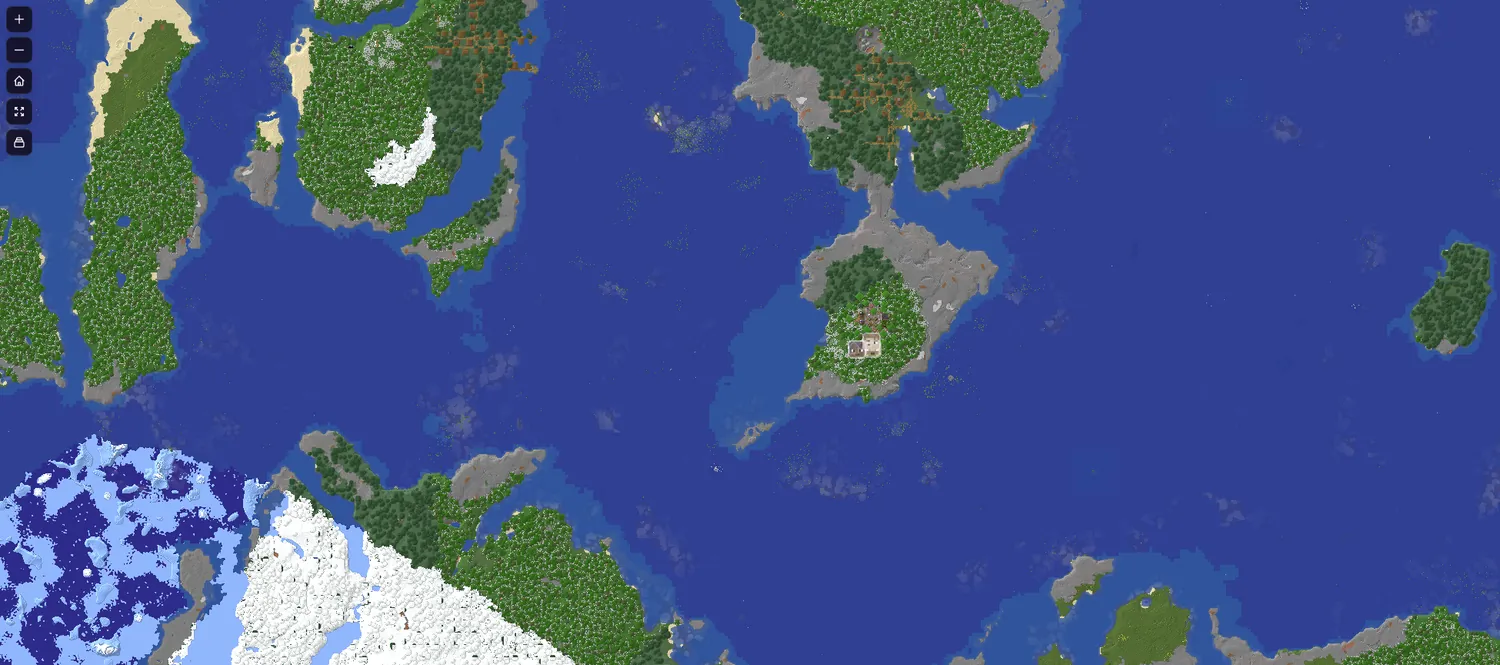
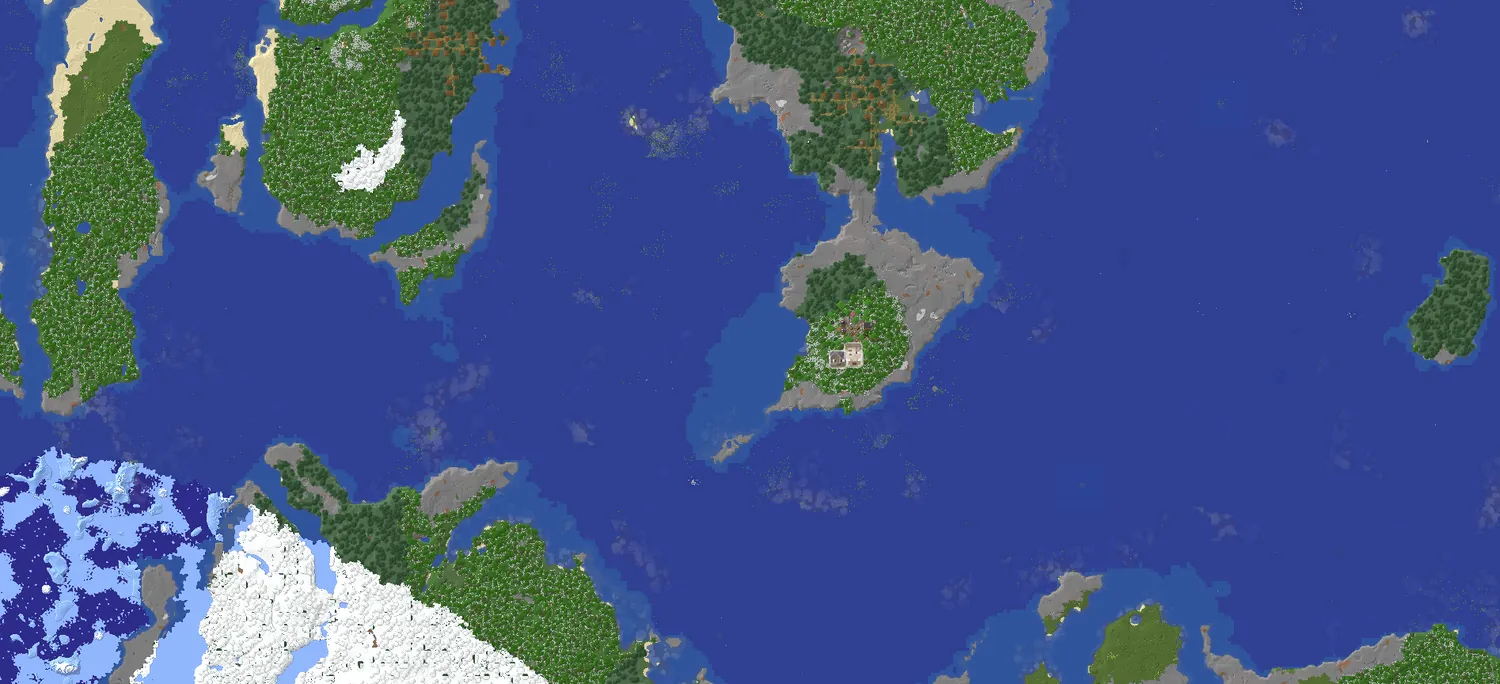
Add files via upload

diff --git a/site/index.html b/site/index.html
@@ -37,7 +37,7 @@ a{color:var(--forest)}
 header.nav{position:sticky;top:0;z-index:10;background:rgba(15,42,29,.96);backdrop-filter:blur(8px)}
 header.nav .wrap{display:flex;align-items:center;justify-content:space-between;gap:16px;min-height:64px;flex-wrap:wrap}
 .brand{font:700 1.35rem var(--serif);color:#fff;text-decoration:none;display:flex;align-items:center;gap:10px}
-.brand span{color:var(--leaf)}
+.brand b{color:var(--leaf);font-weight:inherit}
 nav ul{list-style:none;margin:0;padding:0;display:flex;gap:4px;flex-wrap:wrap}
 nav a{display:block;color:#cfe3d6;text-decoration:none;font-weight:500;font-size:.95rem;padding:8px 12px;border-radius:8px}
 nav a:hover{background:rgba(255,255,255,.08);color:#fff}
@@ -45,7 +45,10 @@ nav a.cta{background:var(--leaf);color:#06180e;font-weight:700}
 nav a.cta:hover{background:#52b374}
 
 /* Hero */
-.hero{background:linear-gradient(90deg,rgba(15,42,29,.94) 0,rgba(15,42,29,.72) 45%,rgba(15,42,29,.25) 100%),linear-gradient(0deg,rgba(15,42,29,.85) 0,transparent 40%),url(img/hero.webp) center/cover,var(--ink);color:#fff;padding:84px 0 96px}
+.hero{position:relative;overflow:hidden;background:var(--ink);color:#fff;padding:84px 0 96px}
+.hero-bg{position:absolute;inset:0;width:100%;height:100%;object-fit:cover;object-position:60% center}
+.hero:after{content:"";position:absolute;inset:0;background:linear-gradient(90deg,rgba(15,42,29,.92) 0,rgba(15,42,29,.62) 50%,rgba(15,42,29,.2) 100%),linear-gradient(0deg,rgba(15,42,29,.8) 0,transparent 40%)}
+.hero .wrap{position:relative;z-index:1}
 .hero .eyebrow{display:inline-flex;align-items:center;gap:10px;background:rgba(255,255,255,.08);border:1px solid rgba(255,255,255,.14);
   padding:7px 14px;border-radius:99px;font-weight:600;font-size:.92rem}
 .dot{width:10px;height:10px;border-radius:50%;background:#8a9a90}
@@ -56,6 +59,7 @@ h1{font-size:clamp(2.8rem,8vw,5.2rem);margin:22px 0 16px;letter-spacing:-.01em}
 h1 em{font-style:normal;color:#7fd39a}
 .hero p.lead{font-size:1.25rem;color:#c3d8ca;max-width:46ch;margin:0 0 30px}
 .actions{display:flex;flex-wrap:wrap;gap:12px}
+.actions .btn{flex:1 1 auto}
 .btn{display:inline-flex;align-items:center;justify-content:center;gap:8px;font:600 1rem var(--sans);cursor:pointer;
   padding:12px 20px;border-radius:10px;border:2px solid transparent;text-decoration:none;transition:transform .12s,background .15s}
 .btn:active{transform:translateY(1px)}
@@ -101,13 +105,13 @@ h2{font-size:clamp(1.9rem,4.5vw,2.8rem);color:var(--ink);margin-bottom:12px}
 .steps b{display:block;color:var(--ink);margin-bottom:4px}
 
 /* Galerij */
-.gallery{display:grid;grid-template-columns:repeat(3,1fr);gap:14px}
+.gallery{display:grid;grid-template-columns:repeat(2,1fr);gap:14px}
 .shot{padding:0;border:1px solid var(--line);border-radius:var(--r);overflow:hidden;cursor:zoom-in;background:#14101f;display:block;line-height:0}
 .shot.big{grid-column:1/-1}
 .shot img{width:100%;height:auto;display:block;transition:transform .4s}
 .shot:hover img{transform:scale(1.03)}
 .shot:not(.big) img{aspect-ratio:16/10;object-fit:cover}
-.shot.big img{aspect-ratio:21/9;object-fit:cover}
+.shot.big img{aspect-ratio:2/1;object-fit:cover}
 figure.map{margin:40px 0 0;border:1px solid var(--line);border-radius:var(--r);overflow:hidden;background:#fff;box-shadow:var(--shadow)}
 figure.map img{width:100%;height:auto;display:block}
 figure.map figcaption{display:flex;align-items:center;justify-content:space-between;gap:16px;flex-wrap:wrap;padding:16px 20px}
@@ -160,7 +164,22 @@ footer .brand{font-size:1.2rem}
 .toast{position:fixed;left:50%;bottom:24px;transform:translate(-50%,20px);background:var(--ink);color:#fff;padding:11px 20px;border-radius:10px;
   font-weight:600;opacity:0;pointer-events:none;transition:.2s;z-index:30}
 .toast.show{opacity:1;transform:translate(-50%,0)}
-@media (max-width:640px){section{padding:60px 0}.hero{padding:56px 0 80px}nav ul{gap:0}nav a{padding:8px 9px;font-size:.88rem}}
+#onlineSub{margin-bottom:22px}
+@media (max-width:640px){
+  section{padding:60px 0}.hero{padding:56px 0 80px}
+  .hero:after{background:linear-gradient(180deg,rgba(15,42,29,.8) 0,rgba(15,42,29,.6) 45%,rgba(15,42,29,.94) 100%)}
+  header.nav .wrap{min-height:56px;padding-top:6px;padding-bottom:6px}
+  nav{width:100%;margin:0 -4px}
+  nav ul{flex-wrap:nowrap;overflow-x:auto;gap:0;scrollbar-width:none;padding-bottom:2px}
+  nav ul::-webkit-scrollbar{display:none}
+  nav a{padding:8px 10px;font-size:.9rem;white-space:nowrap}
+  nav li:nth-child(4){display:none}
+  .actions .btn.discord{flex-basis:100%}
+  .card{padding:22px}
+  .field{flex-direction:column;align-items:stretch;gap:8px;padding:12px 14px}
+  .field code{white-space:nowrap;word-break:normal;font-size:1.05rem}
+  .field .btn{width:100%}
+}
 @media (prefers-reduced-motion:reduce){*{transition:none!important;scroll-behavior:auto!important}}
 </style>
 </head>
@@ -169,7 +188,7 @@ footer .brand{font-size:1.2rem}
 
 <header class="nav">
   <div class="wrap">
-    <a class="brand" href="#top">🌿 Koriander<span>SMP</span></a>
+    <a class="brand" href="#top"><span aria-hidden="true">🌿</span><span>Koriander<b>SMP</b></span></a>
     <nav aria-label="Hoofdmenu">
       <ul>
         <li><a href="#join">Meedoen</a></li>
@@ -185,6 +204,7 @@ footer .brand{font-size:1.2rem}
 
 <main id="top">
   <div class="hero">
+    <img class="hero-bg" src="img/hero.webp" alt="" width="1920" height="1080" fetchpriority="high" decoding="async">
     <div class="wrap">
       <div class="eyebrow" id="status" role="status"><span class="dot"></span><span id="statusText">Status laden…</span></div>
       <h1>Koriander<em>SMP</em></h1>
@@ -247,14 +267,13 @@ footer .brand{font-size:1.2rem}
       <h2>Een kijkje op de server</h2>
       <p class="sub">Een paar plekken uit de wereld waar we samen aan bouwen. Klik op een foto om hem groter te zien.</p>
       <div class="gallery">
-        <button class="shot big" data-full="img/hero.webp"><img src="img/hero.webp" width="1920" height="1080" loading="lazy" alt="Een enorm bouwwerk van een gevleugelde figuur naast een paars portaal, boven een bos"></button>
-        <button class="shot" data-full="img/portaal.webp"><img src="img/portaal.webp" width="1400" height="788" loading="lazy" alt="Een stenen trap die leidt naar een gloeiend paars portaal"></button>
+        <button class="shot big" data-full="img/portaal.webp"><img src="img/portaal.webp" width="1400" height="788" loading="lazy" alt="Een stenen trap die leidt naar een gloeiend paars portaal"></button>
         <button class="shot" data-full="img/hal.webp"><img src="img/hal.webp" width="1400" height="788" loading="lazy" alt="Een speler in zware wapenuitrusting in een grote hal met glazen dak"></button>
         <button class="shot" data-full="img/hal-binnen.webp"><img src="img/hal-binnen.webp" width="1400" height="788" loading="lazy" alt="Het glazen dak en de hangende planten van de hal, van binnen gezien"></button>
       </div>
 
       <figure class="map">
-        <img src="img/kaart.webp" width="1500" height="665" loading="lazy" alt="Kaart van de KorianderSMP-wereld met eilanden, bossen en sneeuwgebieden">
+        <img src="img/kaart.webp" width="1500" height="684" loading="lazy" alt="Kaart van de KorianderSMP-wereld met eilanden, bossen en sneeuwgebieden">
         <figcaption>
           <div><b>De wereldkaart</b><span>Zo ziet onze wereld er van boven uit.</span></div>
           <a class="btn primary small" id="mapLink" href="#" target="_blank" rel="noopener" hidden>Open de live kaart</a>
@@ -322,7 +341,7 @@ footer .brand{font-size:1.2rem}
 <footer>
   <div class="wrap">
     <div>
-      <a class="brand" href="#top">🌿 Koriander<span>SMP</span></a>
+      <a class="brand" href="#top"><span aria-hidden="true">🌿</span><span>Koriander<b>SMP</b></span></a>
       <p style="margin:10px 0 0">Draait op Java 1.21 en hoger, met Bedrock via Geyser.<br>Geen officieel Minecraft-product, niet goedgekeurd door of verbonden met Mojang of Microsoft.</p>
     </div>
     <div>
